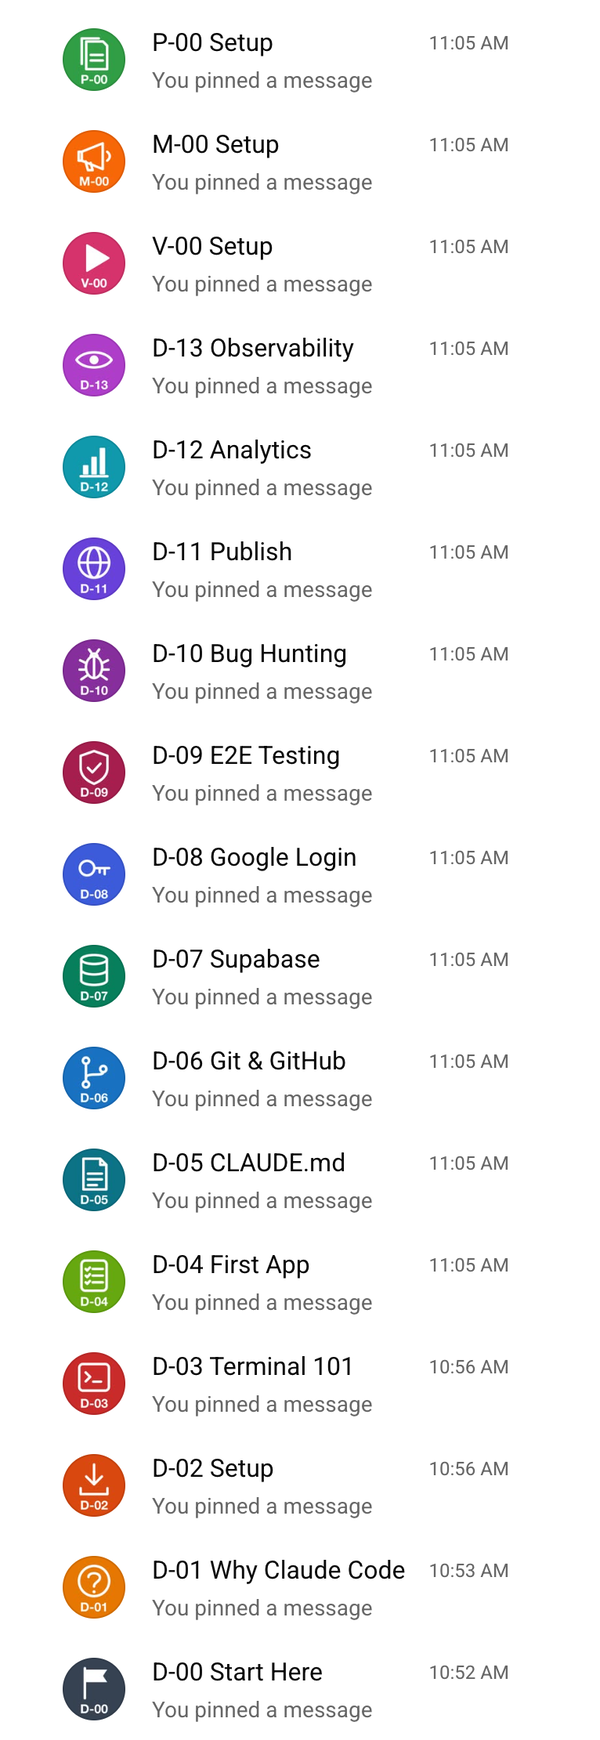
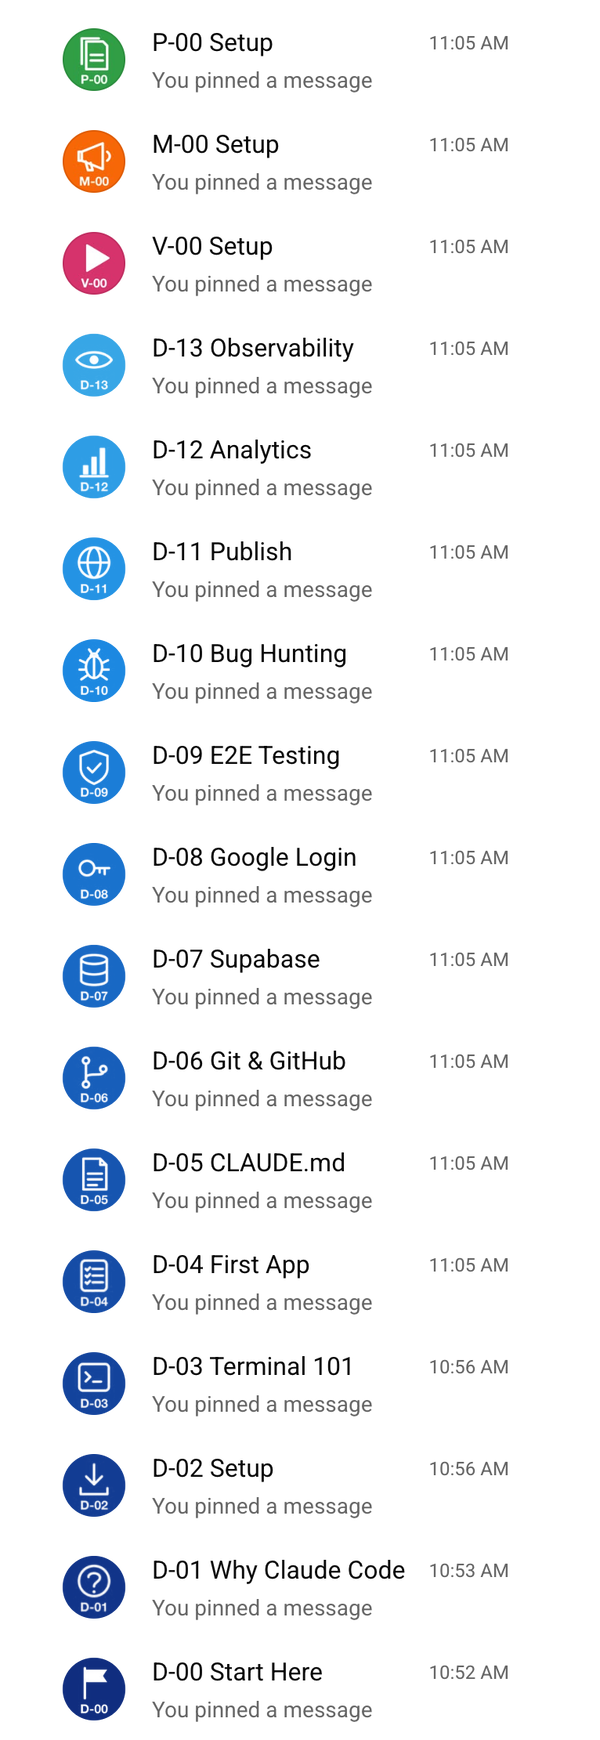
Claude Code ID: group bio replaces pinned messages, blue D series, video without browser frame; meetup moved to 19 Nov

Changed region(s): [[0.09, 0.1862, 0.21, 0.5897], [0.09, 0.6517, 0.21, 0.9931]]

diff --git a/_includes/claude-code-id.html b/_includes/claude-code-id.html
@@ -159,7 +159,7 @@
     </div>
 
     {%- comment -%} Inside the community: screenshots from the real WhatsApp
-      community (group list, and the pinned lesson in D-04). {%- endcomment -%}
+      community (group list, and the group bio of D-04). {%- endcomment -%}
     {%- assign co = c.community.course %}
     <div class="cc-course">
       <div class="cc-course-copy" data-reveal>
@@ -180,12 +180,36 @@
             <img src="{{ img }}wa-groups-list.png" alt="{{ co.groups_alt }}" width="600" height="1740" loading="lazy">
           </div>
         </figure>
-        <figure class="cc-wa-lesson" data-reveal style="--d:2">
+        <figure class="cc-wa-lesson" data-reveal style="--d:2" role="img" aria-label="{{ co.lesson_alt }}">
           <figcaption class="cc-wa-lesson-head">
             <span class="cc-wa-badge" aria-hidden="true">D-04</span>
-            <span><strong>D-04 First App</strong><small>{% include cc-icon.html name="pushpin" size=12 %}{{ co.lesson_label }}</small></span>
+            <span><strong>D-04 First App</strong><small>{% include cc-icon.html name="file" size=12 %}{{ co.lesson_label }}</small></span>
           </figcaption>
-          <img src="{{ img }}wa-lesson.png" alt="{{ co.lesson_alt }}" width="924" height="1060" loading="lazy">
+          {%- comment -%} The group bio as live text (the lessons are written in Indonesian). It scrolls by itself like the group list. {%- endcomment -%}
+          <div class="cc-wa-bio" aria-hidden="true">
+            <div class="cc-wa-bio-text">
+              <p><strong>READ ME first</strong><br><strong>Bikin aplikasi pertama</strong></p>
+              <ol>
+                <li>Bikin folder kosong, masuk, jalanin <code>claude</code></li>
+                <li>Minta yang jelas. Contoh:<br><em>"Bikinin halaman web to-do list sederhana pakai HTML, CSS, JavaScript. Tampilannya rapi dan enak dipakai di HP."</em></li>
+                <li>Plan mode: tekan Shift+Tab sampai muncul "plan mode". Claude bikin rencana dulu tanpa ngubah file. Baca, kalau cocok baru setujui.</li>
+                <li>Buka hasilnya di browser, coba pakai.</li>
+              </ol>
+              <p>Biar prompt-nya enak:</p>
+              <ul>
+                <li>Bilang tujuannya, jangan cuma "bikinin app"</li>
+                <li>Sebut batasannya (teknologi, tampilan)</li>
+                <li>Minta yang kecil dulu, tambah pelan-pelan</li>
+              </ul>
+              <p>Kalau error atau hasilnya aneh:</p>
+              <ul>
+                <li>Copy pesan error, tempel ke Claude, suruh benerin</li>
+                <li>Tekan Esc buat nyetop Claude kalau arahnya salah</li>
+                <li><code>/clear</code> buat mulai percakapan baru</li>
+              </ul>
+              <p>Aplikasinya udah jalan di browser? Lanjut ke grup D-05.</p>
+            </div>
+          </div>
         </figure>
         <span class="cc-chip cc-chip--course">{% include cc-icon.html name="chat" size=16 %}{{ co.chip }}</span>
       </div>
@@ -420,10 +444,6 @@
     </div>
 
     <figure class="cc-browser" data-reveal>
-      <div class="cc-browser-bar">
-        <span class="cc-dots"><i></i><i></i><i></i></span>
-        <span class="cc-browser-url">rizkysyaiful.github.io/scrum-ai-addendum</span>
-      </div>
       <video controls playsinline preload="none" width="1280" height="720" poster="{{ img }}video-poster.jpg">
         <source src="{{ "/assets/video/claude-code-38-minutes.mp4" | relative_url }}" type="video/mp4">
       </video>

diff --git a/assets/css/landing.scss b/assets/css/landing.scss
@@ -926,7 +926,7 @@
 }
 
 /* The visual: a phone showing the group list (it scrolls by itself) and the
-   pinned lesson in front of it. Screenshots stay light in dark mode, like a
+   group bio in front of it. Screenshots stay light in dark mode, like a
    real phone. */
 .cc-course-visual {
   position: relative;
@@ -974,9 +974,30 @@
   background: #EFEAE2;
   box-shadow: 0 34px 60px -28px rgba(14, 26, 43, .6);
   rotate: -2deg;
-
-  img { display: block; width: calc(100% - 20px); height: auto; margin: 10px; border-radius: 10px; }
 }
+
+/* The group bio: a window onto the text that drifts up and back, like the
+   group list does. Paused on hover. */
+.cc-wa-bio {
+  --bio-h: 250px;
+  height: var(--bio-h);
+  overflow: hidden;
+  background: #FFFFFF;
+  color: #111B21;
+  font-family: var(--rs-font-sans);
+  font-size: 13px;
+  line-height: 1.45;
+}
+.cc-wa-bio-text {
+  padding: 12px 16px 16px;
+  animation: cc-bio-scroll 28s ease-in-out infinite;
+
+  p { margin: 0 0 8px !important; font-size: 13px !important; color: inherit !important; }
+  ol, ul { margin: 0 0 8px; padding-left: 20px; }
+  li { margin: 0 0 3px; font-size: 13px; color: inherit; }
+  code { padding: 0 3px; border-radius: 3px; background: #F0F2F5; font-family: var(--rs-font-mono); font-size: 12px; }
+}
+.cc-wa-lesson:hover .cc-wa-bio-text { animation-play-state: paused; }
 
 .cc-wa-lesson-head {
   display: flex;
@@ -998,7 +1019,7 @@
   width: 34px;
   height: 34px;
   border-radius: 50%;
-  background: #6AAE2E;
+  background: hsl(217 78% 37%); /* D-04 in the blue D series */
   color: #FFFFFF;
   font-size: 9.5px;
   font-weight: 800;
@@ -1716,31 +1737,6 @@
     color: var(--cc-on-night-faint);
   }
 }
-.cc-browser-bar {
-  display: flex;
-  align-items: center;
-  gap: 14px;
-  padding: 12px 16px;
-  border-bottom: 1px solid rgba(255, 255, 255, .08);
-  background: #152238;
-}
-.cc-browser-url {
-  flex: 1;
-  min-width: 0;
-  max-width: 420px;
-  margin: 0 auto;
-  padding: 5px 12px;
-  overflow: hidden;
-  border-radius: 999px;
-  background: rgba(0, 0, 0, .25);
-  font-family: var(--rs-font-mono);
-  font-size: 12px;
-  color: #8C9AB0;
-  text-align: center;
-  text-overflow: ellipsis;
-  white-space: nowrap;
-}
-
 .cc-timeline {
   position: relative;
   display: grid;
@@ -1888,6 +1884,12 @@
   28%, 100% { border-color: var(--rs-hairline); box-shadow: none; }
 }
 /* Scrolls the group list from P-00 down to D-00 and back. */
+@keyframes cc-bio-scroll {
+  0%, 14% { transform: translateY(0); }
+  50%, 64% { transform: translateY(calc(var(--bio-h) - 100%)); }
+  96%, 100% { transform: translateY(0); }
+}
+
 @keyframes cc-wa-scroll {
   0%, 12% { transform: translateY(0); }
   46%, 60% { transform: translateY(calc(var(--wa-h) - 100%)); }
@@ -1963,8 +1965,10 @@
   .cc-loop li,
   .cc-hero [data-reveal],
   .cc-wa-screen img,
+  .cc-wa-bio-text,
   .cc-live-dot::after { animation: none !important; }
   .cc-wa-screen { overflow-y: auto; }
+  .cc-wa-bio { overflow-y: auto; }
   .cc .cc-btn,
   .cc-feature,
   .cc-format,
